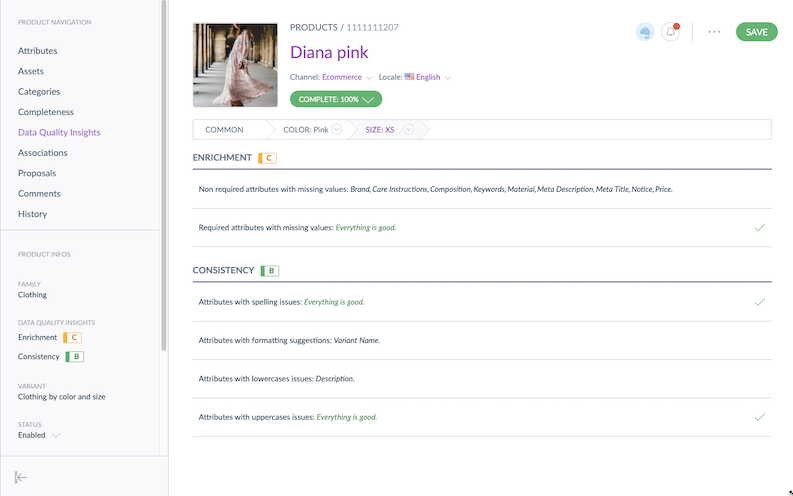
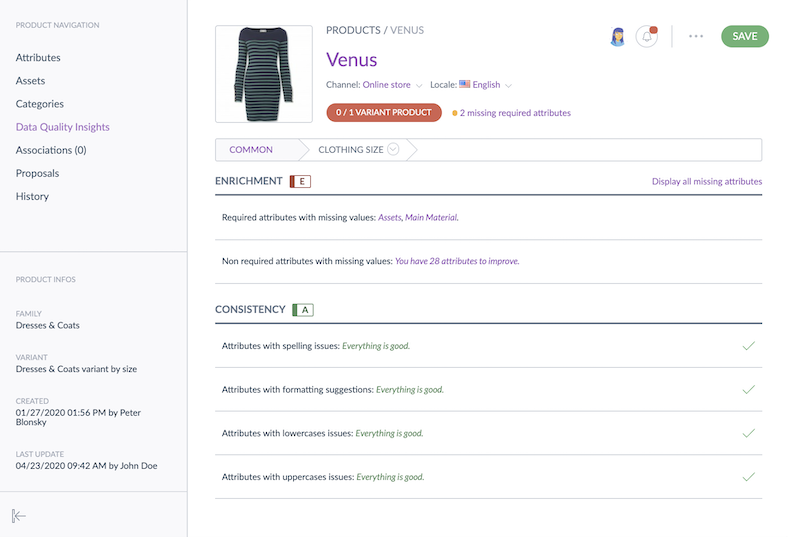
Better screenshots

diff --git a/content/updates/2020-04/5-data-quality-new-improvements.md b/content/updates/2020-04/5-data-quality-new-improvements.md
@@ -8,7 +8,7 @@ Following last month improvements on product variants, the data quality insights
 
 This improvement now enables you to easily monitor **your data quality and accuracy for all your products**.
 
-![Data Quality Insights on variant products](../img/data-quality-variant-panel_2.png)
+![Data Quality Insights on variant products](../img/data-quality-product-models.png)
 
 ## Spell-check: new languages supported!
 ::: meta-data type="Improvement" features="Quality, Data Quality Insights" available="late April"
